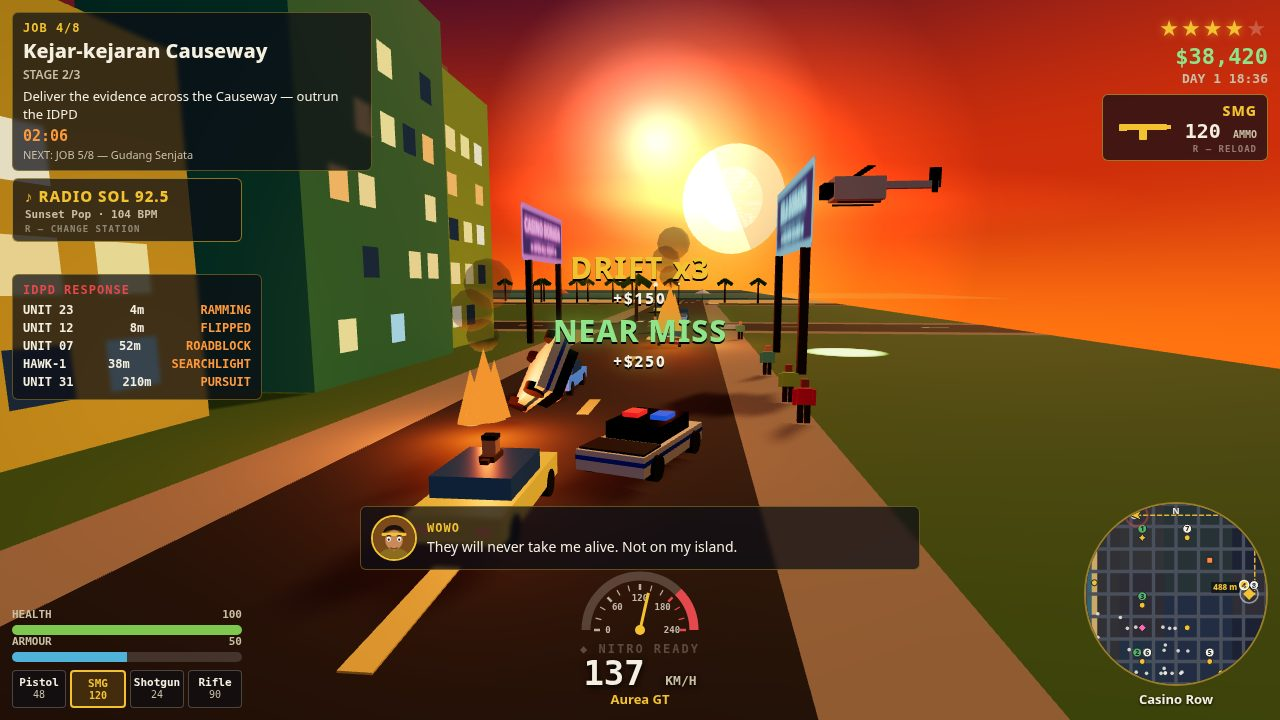
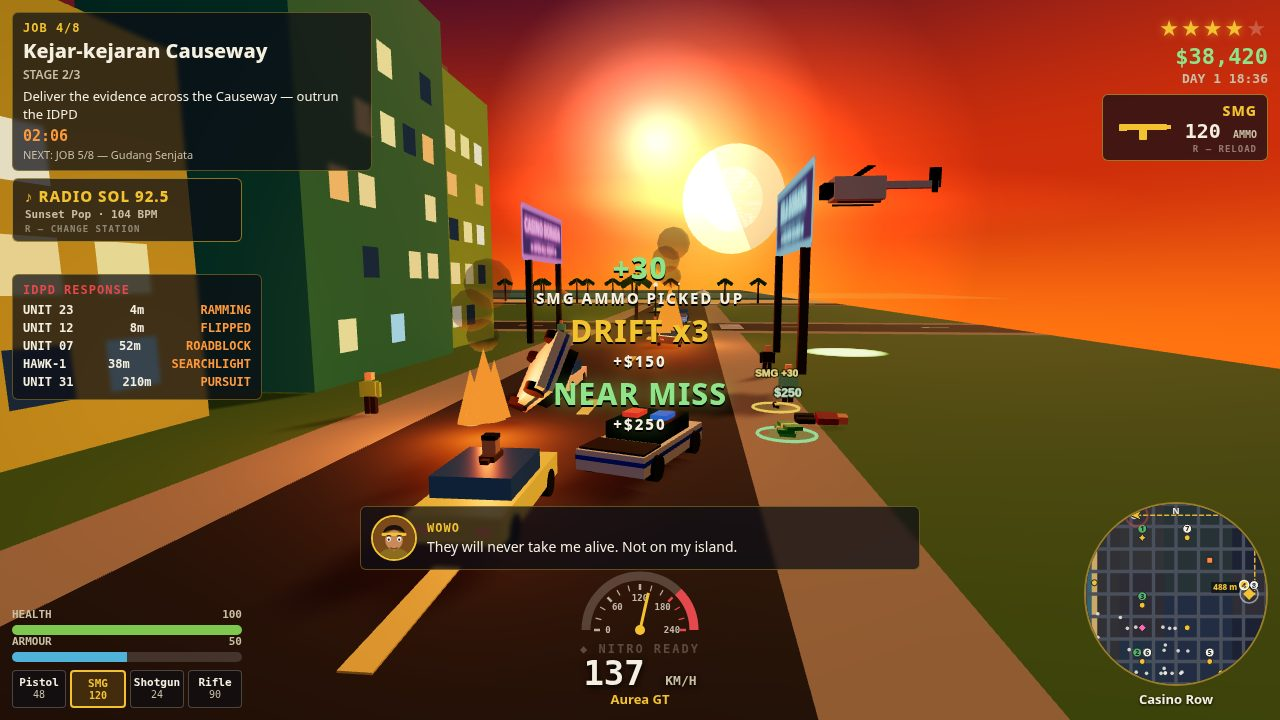
Enemy drops (recording #10): cash + weapon pickups from downed enemies, visible in chase + combat shots

Changed region(s): [[0.4062, 0.3361, 0.6562, 0.6417], [0.2812, 0.5194, 0.3125, 0.5806]]

diff --git a/game/src/drops.js b/game/src/drops.js
@@ -1,0 +1,213 @@
+// Isla Dorada — enemy drops: cash + weapon pickups from downed enemies.
+// GTA-style loot on the ground: when an enemy goes down (combat.js calls
+// spawnEnemyDrop at the falling -> downed transition), he drops a stack of
+// green cash and, about half the time (always for heavies), his weapon with
+// ammo. Walk or drive over a drop to collect it: cash adds to Wowo's money,
+// a weapon adds ammo to that rack slot, and a score popup confirms the
+// pickup ("+$250 CASH PICKED UP" / "+30 SMG AMMO PICKED UP"). Drops bob and
+// glow on the asphalt with a floating label, so they read at a glance in a
+// screenshot as well as in live play. Amounts are pocket change next to the
+// mission payouts (missions.js pays $2,500-$6,000 per job), never a shortcut
+// past the story economy. At most 12 drops live at once; the oldest vanishes.
+import * as THREE from 'three';
+import { WEAPONS } from './config.js';
+import { pushScorePopup } from './hud.js';
+
+const MAX_DROPS = 12;
+const COLLECT_RADIUS = 2.2;
+// Ammo a dropped weapon carries (about half a fresh rack slot).
+const DROP_AMMO = [24, 30, 12, 30]; // Pistol, SMG, Shotgun, Rifle
+
+function makeLabelSprite(text, color) {
+  const canvas = document.createElement('canvas');
+  canvas.width = 320;
+  canvas.height = 80;
+  const ctx = canvas.getContext('2d');
+  ctx.font = '800 42px Arial, sans-serif';
+  ctx.textAlign = 'center';
+  ctx.textBaseline = 'middle';
+  ctx.lineWidth = 9;
+  ctx.strokeStyle = 'rgba(0,0,0,0.9)';
+  ctx.strokeText(text, 160, 42);
+  ctx.fillStyle = color;
+  ctx.fillText(text, 160, 42);
+  const tex = new THREE.CanvasTexture(canvas);
+  const sprite = new THREE.Sprite(new THREE.SpriteMaterial({
+    map: tex, transparent: true, depthWrite: false,
+  }));
+  sprite.scale.set(3.2, 0.8, 1);
+  return sprite;
+}
+
+// A stack of green bills on a glowing green disc, label floating above it.
+function makeCashMesh(amount) {
+  const group = new THREE.Group();
+  const green = new THREE.MeshStandardMaterial({ color: 0x2fae4e, roughness: 0.6 });
+  const band = new THREE.MeshStandardMaterial({ color: 0xd8f2c0, roughness: 0.6 });
+  for (let i = 0; i < 3; i++) {
+    const bill = new THREE.Mesh(new THREE.BoxGeometry(0.95, 0.13, 0.55), green);
+    bill.position.set((i - 1) * 0.12, 0.1 + i * 0.14, (i % 2 ? 0.08 : -0.08));
+    bill.rotation.y = (i - 1) * 0.22;
+    group.add(bill);
+    const strap = new THREE.Mesh(new THREE.BoxGeometry(0.2, 0.14, 0.57), band);
+    strap.position.copy(bill.position);
+    strap.rotation.y = bill.rotation.y;
+    group.add(strap);
+  }
+  const disc = new THREE.Mesh(
+    new THREE.CircleGeometry(1.05, 24),
+    new THREE.MeshBasicMaterial({ color: 0x2fae4e, transparent: true, opacity: 0.28 }),
+  );
+  disc.rotation.x = -Math.PI / 2;
+  disc.position.y = 0.02;
+  group.add(disc);
+  const ring = new THREE.Mesh(
+    new THREE.TorusGeometry(1.0, 0.06, 8, 28),
+    new THREE.MeshBasicMaterial({ color: 0x5ae07a }),
+  );
+  ring.rotation.x = Math.PI / 2;
+  ring.position.y = 0.05;
+  group.add(ring);
+  const label = makeLabelSprite(`$${amount}`, '#8fe388');
+  label.position.y = 1.5;
+  group.add(label);
+  return group;
+}
+
+// A dropped gun lying on the asphalt on a glowing gold disc, label above it.
+function makeWeaponMesh(weaponIndex, ammo) {
+  const w = WEAPONS[weaponIndex] || WEAPONS[0];
+  const group = new THREE.Group();
+  const dark = new THREE.MeshStandardMaterial({ color: 0x22242a, roughness: 0.5, metalness: 0.4 });
+  const gold = new THREE.MeshStandardMaterial({
+    color: 0xf2c230, roughness: 0.4, metalness: 0.3,
+    emissive: 0xf2c230, emissiveIntensity: 0.35,
+  });
+  const long = w.name === 'Shotgun' || w.name === 'Rifle';
+  const body = new THREE.Mesh(new THREE.BoxGeometry(0.12, 0.12, long ? 1.15 : 0.7), dark);
+  body.position.y = 0.14;
+  group.add(body);
+  const grip = new THREE.Mesh(new THREE.BoxGeometry(0.1, 0.28, 0.12), dark);
+  grip.position.set(0, 0.1, long ? -0.35 : -0.2);
+  grip.rotation.x = 0.35;
+  group.add(grip);
+  const accent = new THREE.Mesh(new THREE.BoxGeometry(0.13, 0.05, 0.3), gold);
+  accent.position.set(0, 0.21, long ? 0.25 : 0.12);
+  group.add(accent);
+  const disc = new THREE.Mesh(
+    new THREE.CircleGeometry(1.0, 24),
+    new THREE.MeshBasicMaterial({ color: 0xf2c230, transparent: true, opacity: 0.25 }),
+  );
+  disc.rotation.x = -Math.PI / 2;
+  disc.position.y = 0.02;
+  group.add(disc);
+  const ring = new THREE.Mesh(
+    new THREE.TorusGeometry(0.95, 0.06, 8, 28),
+    new THREE.MeshBasicMaterial({ color: 0xf2c230 }),
+  );
+  ring.rotation.x = Math.PI / 2;
+  ring.position.y = 0.05;
+  group.add(ring);
+  const label = makeLabelSprite(`${w.name.toUpperCase()} +${ammo}`, '#f2c230');
+  label.position.y = 1.5;
+  group.add(label);
+  return group;
+}
+
+export function initDrops(G) {
+  G.drops = { list: [] };
+}
+
+// Spawn a cash drop at (x, z). Returns the drop record.
+export function dropCash(G, x, z, amount) {
+  if (!G.drops) initDrops(G);
+  const group = makeCashMesh(amount);
+  group.position.set(x, 0, z);
+  G.scene.add(group);
+  const drop = {
+    kind: 'cash', amount, x, z, group,
+    phase: G.rng ? G.rng() * Math.PI * 2 : 0,
+  };
+  pushDrop(G, drop);
+  return drop;
+}
+
+// Spawn a weapon drop at (x, z): the gun + `ammo` rounds for that rack slot.
+export function dropWeapon(G, x, z, weaponIndex, ammo) {
+  if (!G.drops) initDrops(G);
+  const idx = Math.max(0, Math.min(WEAPONS.length - 1, weaponIndex || 0));
+  const rounds = typeof ammo === 'number' ? ammo : DROP_AMMO[idx];
+  const group = makeWeaponMesh(idx, rounds);
+  group.position.set(x, 0, z);
+  group.rotation.y = G.rng ? G.rng() * Math.PI : 0;
+  G.scene.add(group);
+  const drop = {
+    kind: 'weapon', weaponIndex: idx, ammo: rounds, x, z, group,
+    phase: G.rng ? G.rng() * Math.PI * 2 : 0,
+  };
+  pushDrop(G, drop);
+  return drop;
+}
+
+function pushDrop(G, drop) {
+  G.drops.list.push(drop);
+  while (G.drops.list.length > MAX_DROPS) {
+    const old = G.drops.list.shift();
+    G.scene.remove(old.group);
+  }
+}
+
+// What a downed enemy leaves behind: always a cash stack ($120-$249 for a
+// gunman, $250-$349 for a heavy), plus his weapon — always for a heavy,
+// half the time for a gunman (gunmen carry a pistol or an SMG, heavies a
+// shotgun or a rifle). Called once per kill, at the falling -> downed
+// transition in combat.js, so the loot lands with the body.
+export function spawnEnemyDrop(G, enemy) {
+  if (!G.drops) initDrops(G);
+  const heavy = enemy.kind === 'heavy';
+  const cash = heavy
+    ? 250 + Math.floor((G.rng ? G.rng() : 0.5) * 100)
+    : 120 + Math.floor((G.rng ? G.rng() : 0.5) * 130);
+  const ex = enemy.pos ? enemy.pos.x : enemy.x;
+  const ez = enemy.pos ? enemy.pos.z : enemy.z;
+  dropCash(G, ex + 0.7, ez + 0.4, cash);
+  const roll = G.rng ? G.rng() : 0.5;
+  if (heavy || roll < 0.5) {
+    const idx = heavy
+      ? (roll < 0.5 ? 2 : 3)
+      : (roll < 0.25 ? 0 : 1);
+    dropWeapon(G, ex - 0.8, ez - 0.3, idx);
+  }
+}
+
+// Collect one drop: cash pays out, a weapon refills its rack slot, and a
+// score popup confirms the pickup in the HUD.
+export function collectDrop(G, drop) {
+  const list = G.drops ? G.drops.list : [];
+  const i = list.indexOf(drop);
+  if (i >= 0) list.splice(i, 1);
+  G.scene.remove(drop.group);
+  if (drop.kind === 'cash') {
+    G.player.money += drop.amount;
+    pushScorePopup(G, `+$${drop.amount}`, 'cash', 'CASH PICKED UP');
+  } else {
+    const w = G.combat.weapons[drop.weaponIndex];
+    if (w) w.ammo += drop.ammo;
+    const name = (WEAPONS[drop.weaponIndex] || WEAPONS[0]).name.toUpperCase();
+    pushScorePopup(G, `+${drop.ammo}`, 'cash', `${name} AMMO PICKED UP`);
+  }
+}
+
+// Bob the drops and collect any the player walks or drives over (2.2 m).
+export function updateDrops(G, dt) {
+  if (!G.drops || !G.player || !G.player.pos) return;
+  for (const drop of [...G.drops.list]) {
+    drop.group.position.y = 0.12 + Math.sin(G.time * 2 + drop.phase) * 0.08;
+    const dx = drop.x - G.player.pos.x;
+    const dz = drop.z - G.player.pos.z;
+    if (dx * dx + dz * dz < COLLECT_RADIUS * COLLECT_RADIUS) {
+      collectDrop(G, drop);
+    }
+  }
+  void dt;
+}

diff --git a/game/src/shots.js b/game/src/shots.js
@@ -21,7 +21,8 @@ import { renderHUD, showDialogue, pushScorePopup } from './hud.js';
 import { renderMinimap } from './minimap.js';
 import { setWanted, spawnPoliceCar, spawnHeli } from './police.js';
 import { spawnTrafficCar, spawnPed } from './traffic.js';
-import { spawnEnemy } from './combat.js';
+import { spawnEnemy, spawnDownedEnemy } from './combat.js';
+import { dropCash, dropWeapon } from './drops.js';
 import { startMission } from './missions.js';
 import { makeCar } from './driving.js';
 import { drawMap } from './map.js';
@@ -292,6 +293,17 @@ function stageChase(G) {
     { name: 'UNIT 31', dist: 210, status: 'PURSUIT', mesh: null },
   ];
 
+  // Enemy drops on the asphalt (recording #10): the flipped unit threw its
+  // officer out — he is down on the north shoulder, his cash stack and his
+  // SMG lying beside him, glowing green and gold. Kept on the road's north
+  // edge, right of the popup stack and clear of the flipped car, so the loot
+  // reads at a glance. The cover moment (the airborne flipped car over the
+  // GT) is untouched.
+  spawnDownedEnemy(G, PX - 10, PZ - 8.2, 'gunman');
+  dropCash(G, PX - 8, PZ - 7.6, 250);
+  dropWeapon(G, PX - 12.5, PZ - 7.8, 1); // SMG +30
+  pushScorePopup(G, '+30', 'cash', 'SMG AMMO PICKED UP');
+
   // A BURNING traffic car ahead on the right shoulder, plus live traffic
   // ahead (one oncoming) and pedestrians on both sidewalks.
   const burning = spawnTrafficCar(G, PX - 38, PZ, H, 'Palma Cruiser');
@@ -402,6 +414,13 @@ function stageCombat(G) {
   down.fallTimer = 0.9;
   down.mesh.rotation.x = -Math.PI / 2; // flat on his back
   down.mesh.position.y = 0.25;
+
+  // Enemy drops (recording #10): the downed gunman already dropped his loot
+  // — a green cash stack beside his body and his pistol on the asphalt with
+  // a floating "PISTOL +24" label, both glowing so they read in the frame.
+  dropCash(G, downP.x + 1.4, downP.z + 1.2, 250);
+  dropWeapon(G, downP.x - 1.2, downP.z + 1.8, 0); // Pistol +24
+  pushScorePopup(G, '+$250', 'cash', 'CASH PICKED UP');
 
   // A burning pickup on the right flank, flames + smoke in frame.
   const burnP = offsetFrom(PX, PZ, H, 14, 8);

diff --git a/game/src/combat.js b/game/src/combat.js
@@ -14,6 +14,7 @@ import { Input } from './input.js';
 import { clamp, lerp } from './random.js';
 import { makeCar, setCarOnFire, spawnFire, spawnSmoke, spawnSparks } from './driving.js';
 import { setWanted, spawnFlippedPoliceCar, spawnPoliceCar, spawnRammingPolice } from './police.js';
+import { initDrops, spawnEnemyDrop, updateDrops } from './drops.js';
 
 const TRACER_POOL = 16;
 const TRACER_LIFE = 0.09;
@@ -83,6 +84,7 @@ function makeHumanoid(kind) {
 }
 
 export function initCombat(G) {
+  initDrops(G); // enemy drops: cash + weapon pickups from downed enemies
   G.combat = {
     weaponIndex: 0,
     weapons: WEAPONS.map((w) => ({ ...w })), // deep copy of the rack
@@ -309,7 +311,8 @@ function tryFire(G) {
     if (best.hp <= 0) {
       best.state = 'falling';
       best.fallTimer = 0;
-      G.player.money += 50;
+      // No instant payout: the kill pays through the drop he leaves when
+      // his body hits the ground (spawnEnemyDrop, in updateEnemy below).
     }
   } else {
     // Miss: the round still hits something — sparks where the tracer ends.
@@ -339,6 +342,7 @@ function updateEnemy(G, e, dt) {
     e.mesh.position.y = 0.15 * f;
     if (e.fallTimer >= 0.9) {
       e.state = 'downed';
+      spawnEnemyDrop(G, e); // the body lands — his cash (+ weapon) drops with him
       G.combat.downed.push(e);
       const i = G.combat.enemies.indexOf(e);
       if (i >= 0) G.combat.enemies.splice(i, 1);
@@ -427,6 +431,9 @@ export function updateCombat(G, dt) {
 
   // Enemies act even while the player is in a car (they keep closing in).
   for (const e of [...c.enemies]) updateEnemy(G, e, dt);
+
+  // Drops bob on the asphalt and are collected by walking/driving over them.
+  updateDrops(G, dt);
 
   if (G.mode !== 'play') return;
 

diff --git a/game/src/main.js b/game/src/main.js
@@ -266,5 +266,9 @@ function runShot(name) {
 }
 
 boot();
+// Diagnostic handle for headless verification (diag-isla.mjs / playtests):
+// the live game state, so a test can spawn drops and drive the player over
+// them without touching gameplay. Read-only from the game's point of view.
+window.__G = G;
 if (shotName) runShot(shotName);
 else requestAnimationFrame(frame);

diff --git a/README.md b/README.md
@@ -51,6 +51,7 @@ No install, no build step, no network: `serve.ts` (Node 22, standard library onl
 - **Driving**: 6 original vehicles (Aurea GT, Solano S, Palma Cruiser, Faro Pickup, Cayo Coupe, Marina Taxi), chase camera with speed FOV, ambient traffic cars and pedestrians, drift and near-miss scoring (DRIFT x3, NEAR MISS +$250), and crash physics — hard hits spark, smoke, and can flip a car wheels-up or set it burning.
 - **Police**: wanted level 0–5 stars, named IDPD response units (UNIT 12, UNIT 07, UNIT 23, UNIT 31, HAWK-1, UNIT 18) with live statuses — PURSUIT, RAMMING, ROADBLOCK, BOXING IN, SEARCHLIGHT, WRECKED — plus the IDPD Hawk helicopter. Units ram with real contact and can be flipped and wrecked.
 - **On-foot combat**: 4-weapon rack with ammo, reload, enemy AI that closes in and shoots back, muzzle flashes, tracer lines, floating damage numbers, downed enemies that stay down, and burning cars.
+- **Enemy drops**: a downed enemy drops his loot on the asphalt — a glowing green cash stack ($120–$349) and, often, his weapon with ammo. Walk or drive over a drop to pick it up: cash adds to Wowo's money, a weapon refills its rack slot, and a score popup confirms the pickup.
 - **Missions**: 8 staged story jobs with briefings, objectives and escalating wanted levels, with Wowo's dialogue.
 - **HUD**: mission panel with timer and next step, wanted stars, money, clock, police response list, round minimap with district name, health and armour, weapon rack, a speedometer gauge with nitro lamp, drawn character portraits in the dialogue, and drift / near-miss score popups.
 - **Garage**: upgrades with prices — Turbo Engine, Armored Plating, Sport Brakes, Nitro Boost, Gold Paint Job.
